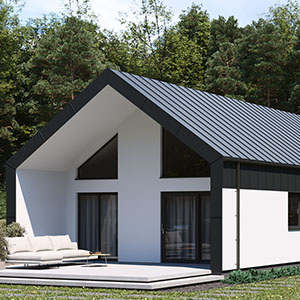
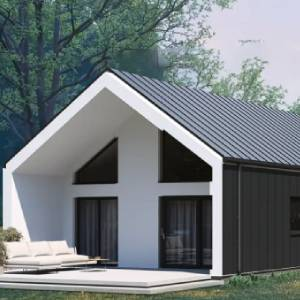
fdsa

diff --git a/src/utils/houseConfigs.js b/src/utils/houseConfigs.js
@@ -117,6 +117,7 @@ import finishD115Raw from '../assets/dom2/thumbnails/elewacjasurowa.jpg'
 import finishD115BlackSlatsThumb from '../assets/dom2/thumbnails/czarnelamele.png'
 import finishD115WhiteSlatsThumb from '../assets/dom2/thumbnails/bialelamale.png'
 import finishD115DarkSlatsThumb from '../assets/dom2/thumbnails/ciemnelamele.png'
+import finisD115MetalPlasterThumb from '../assets/dom2/thumbnails/tynkiblacha.jpg'
 import finishD115SlatsThumb from '../assets/dom2/thumbnails/lamele.png'
 
 
@@ -354,7 +355,7 @@ drzwi: {
       { id: 2, name: 'Tynk mineralny', thumb: finishD115MineralPlasterThumb, image: finishD115MineralPlaster, hasColors: true },
 
       { id: 3, name: 'Lamele', thumb: finishD115SlatsThumb, image: finishD115Slats, hasColors: true },
-      { id: 4, name: 'Tynk i blacha', thumb: finishD115MineralPlasterThumb, image: finishD115PlasterMetal } // POPRAWIONE: 'Image' -> 'image'
+      { id: 4, name: 'Tynk i blacha', thumb: finisD115MetalPlasterThumb, image: finishD115PlasterMetal } // POPRAWIONE: 'Image' -> 'image'
     ],
       kolor: {
         2: [
